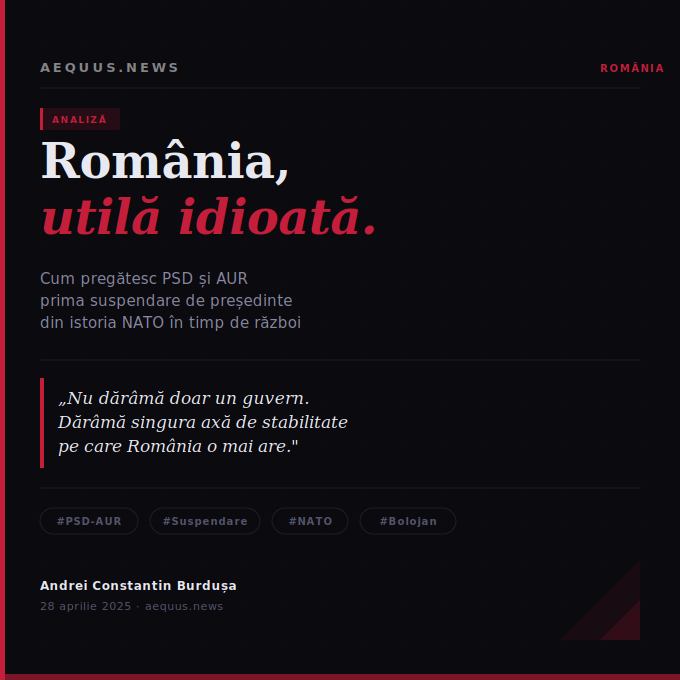
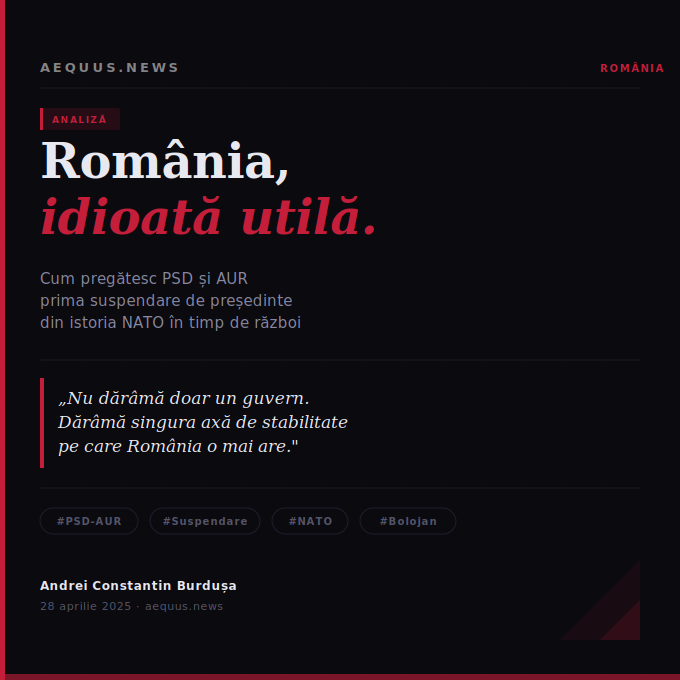
Add files via upload

Changed region(s): [[0.0618, 0.2779, 0.4941, 0.3706]]

diff --git a/articles/romania-psd-aur-suspendare-criza-geopolitica.html b/articles/romania-psd-aur-suspendare-criza-geopolitica.html
@@ -3,7 +3,7 @@
 <head>
   <meta charset="UTF-8">
   <meta name="viewport" content="width=device-width, initial-scale=1.0">
-  <title>România, utilă idioată. Cum pregătesc PSD și AUR prima suspendare de președinte din istoria NATO în timp de război | Aequus</title>
+  <title>România, idioată utilă. Cum pregătesc PSD și AUR prima suspendare de președinte din istoria NATO în timp de război | Aequus</title>
 
   <!-- SEO -->
   <meta name="description" content="PSD și AUR pregătesc suspendarea președintelui Nicușor Dan în cel mai periculos moment geopolitic de după Războiul Rece. O analiză fără perdea despre ce înseamnă asta pentru NATO, UE și România.">
@@ -11,7 +11,7 @@
   <meta name="keywords" content="suspendare presedinte, PSD AUR motiune, Bolojan, Nicusor Dan, criza politica Romania, NATO Romania, geopolitica">
 
   <!-- Open Graph -->
-  <meta property="og:title" content="România, utilă idioată. Cum pregătesc PSD și AUR prima suspendare de președinte din istoria NATO în timp de război">
+  <meta property="og:title" content="România, idioată utilă. Cum pregătesc PSD și AUR prima suspendare de președinte din istoria NATO în timp de război">
   <meta property="og:description" content="PSD și AUR pregătesc suspendarea președintelui în cel mai periculos moment geopolitic de după Războiul Rece. Ce înseamnă asta pentru NATO, UE și România.">
   <meta property="og:image" content="https://aequus.news/articles/card-romania-psd-aur-suspendare-criza-geopolitica.png">
   <meta property="og:url" content="https://aequus.news/articles/romania-psd-aur-suspendare-criza-geopolitica.html">
@@ -21,7 +21,7 @@
 
   <!-- Twitter Card -->
   <meta name="twitter:card" content="summary_large_image">
-  <meta name="twitter:title" content="România, utilă idioată. PSD și AUR pregătesc suspendarea în timp de război">
+  <meta name="twitter:title" content="România, idioată utilă. PSD și AUR pregătesc suspendarea în timp de război">
   <meta name="twitter:description" content="O analiză fără perdea despre criza politică și consecințele ei geopolitice reale.">
   <meta name="twitter:image" content="https://aequus.news/articles/card-romania-psd-aur-suspendare-criza-geopolitica.png">
 
@@ -256,7 +256,7 @@
 
 <div class="hero">
   <div class="hero-category">Analiză · România</div>
-  <h1>România, <em>utilă idioată.</em><br>Cum pregătesc PSD și AUR prima suspendare de președinte din istoria NATO în timp de război</h1>
+  <h1>România, <em>idioată utilă.</em><br>Cum pregătesc PSD și AUR prima suspendare de președinte din istoria NATO în timp de război</h1>
   <p class="hero-lead">Două partide fără nimic în comun au descoperit că pot demola împreună. Nu un guvern — asta e doar primul perete. Ci singura axă de stabilitate pe care România o mai are într-un moment în care Rusia se uită atentă la orice fisură din flancul estic al Alianței.</p>
   <div class="hero-meta">
     <span><strong>Andrei Constantin Burdușa</strong></span>
